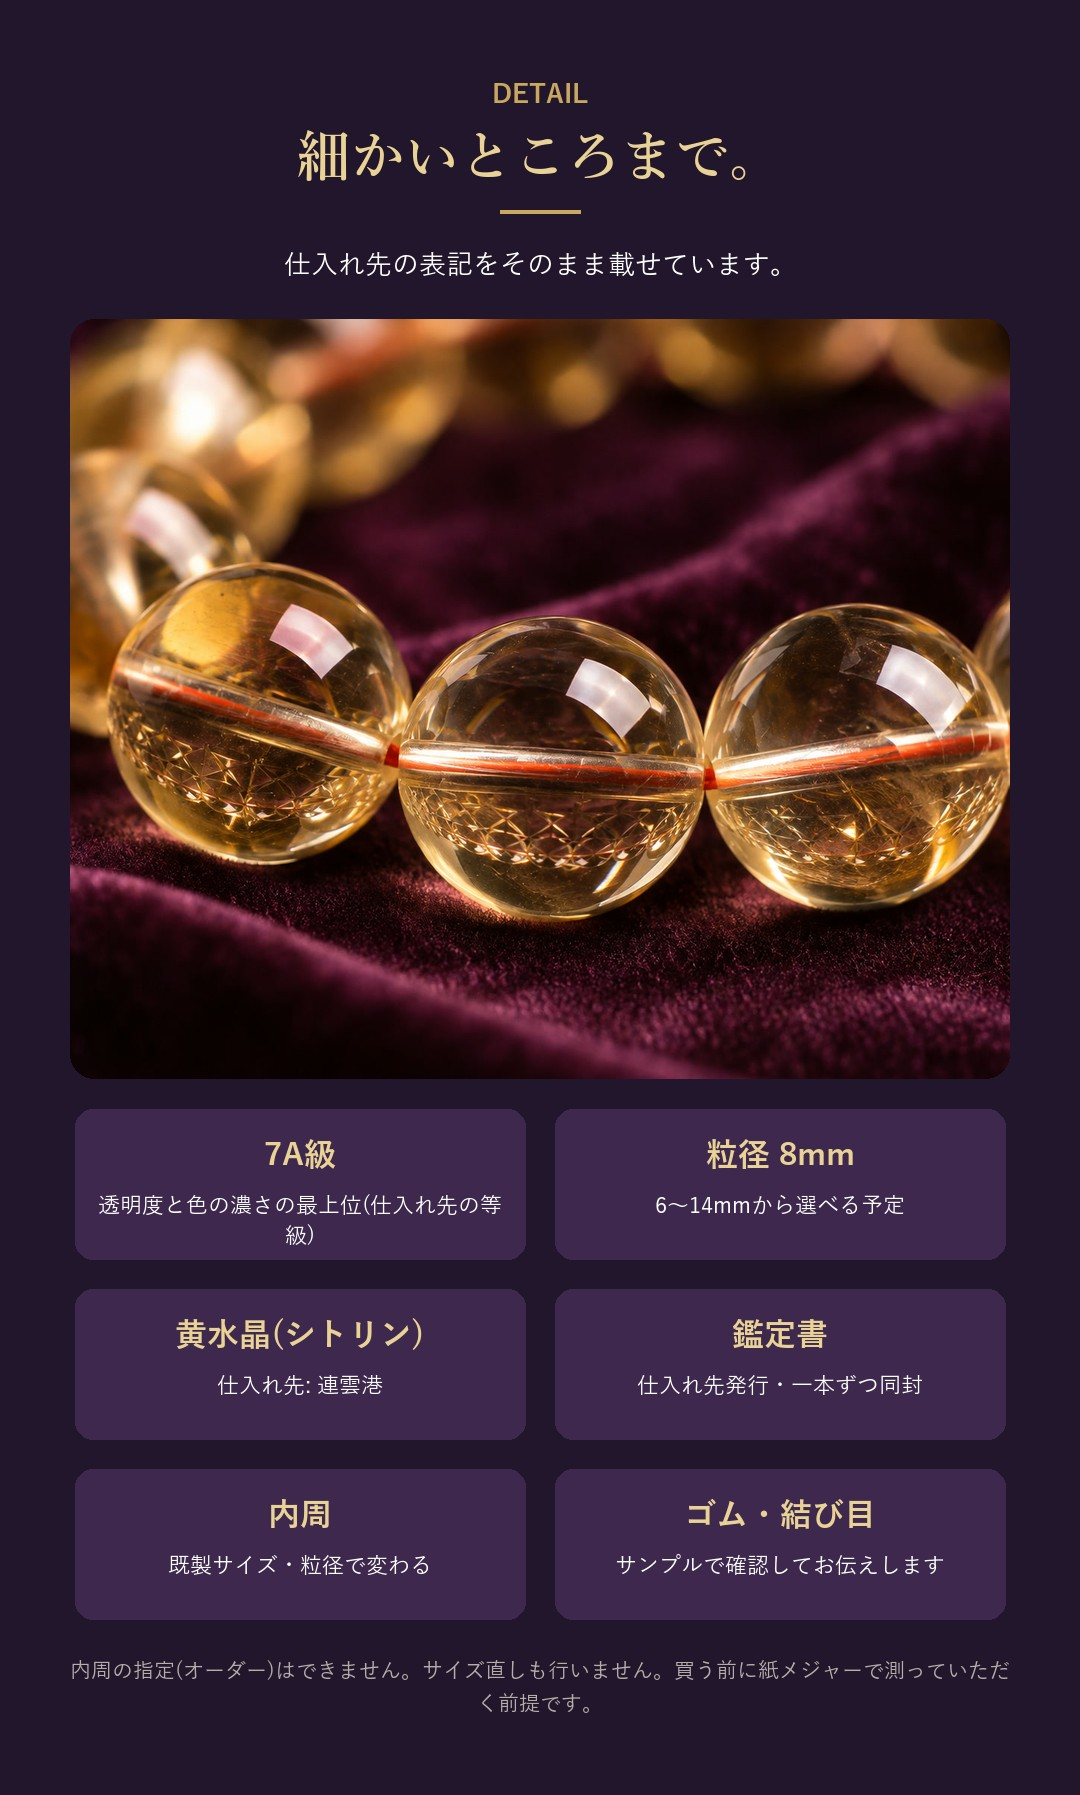
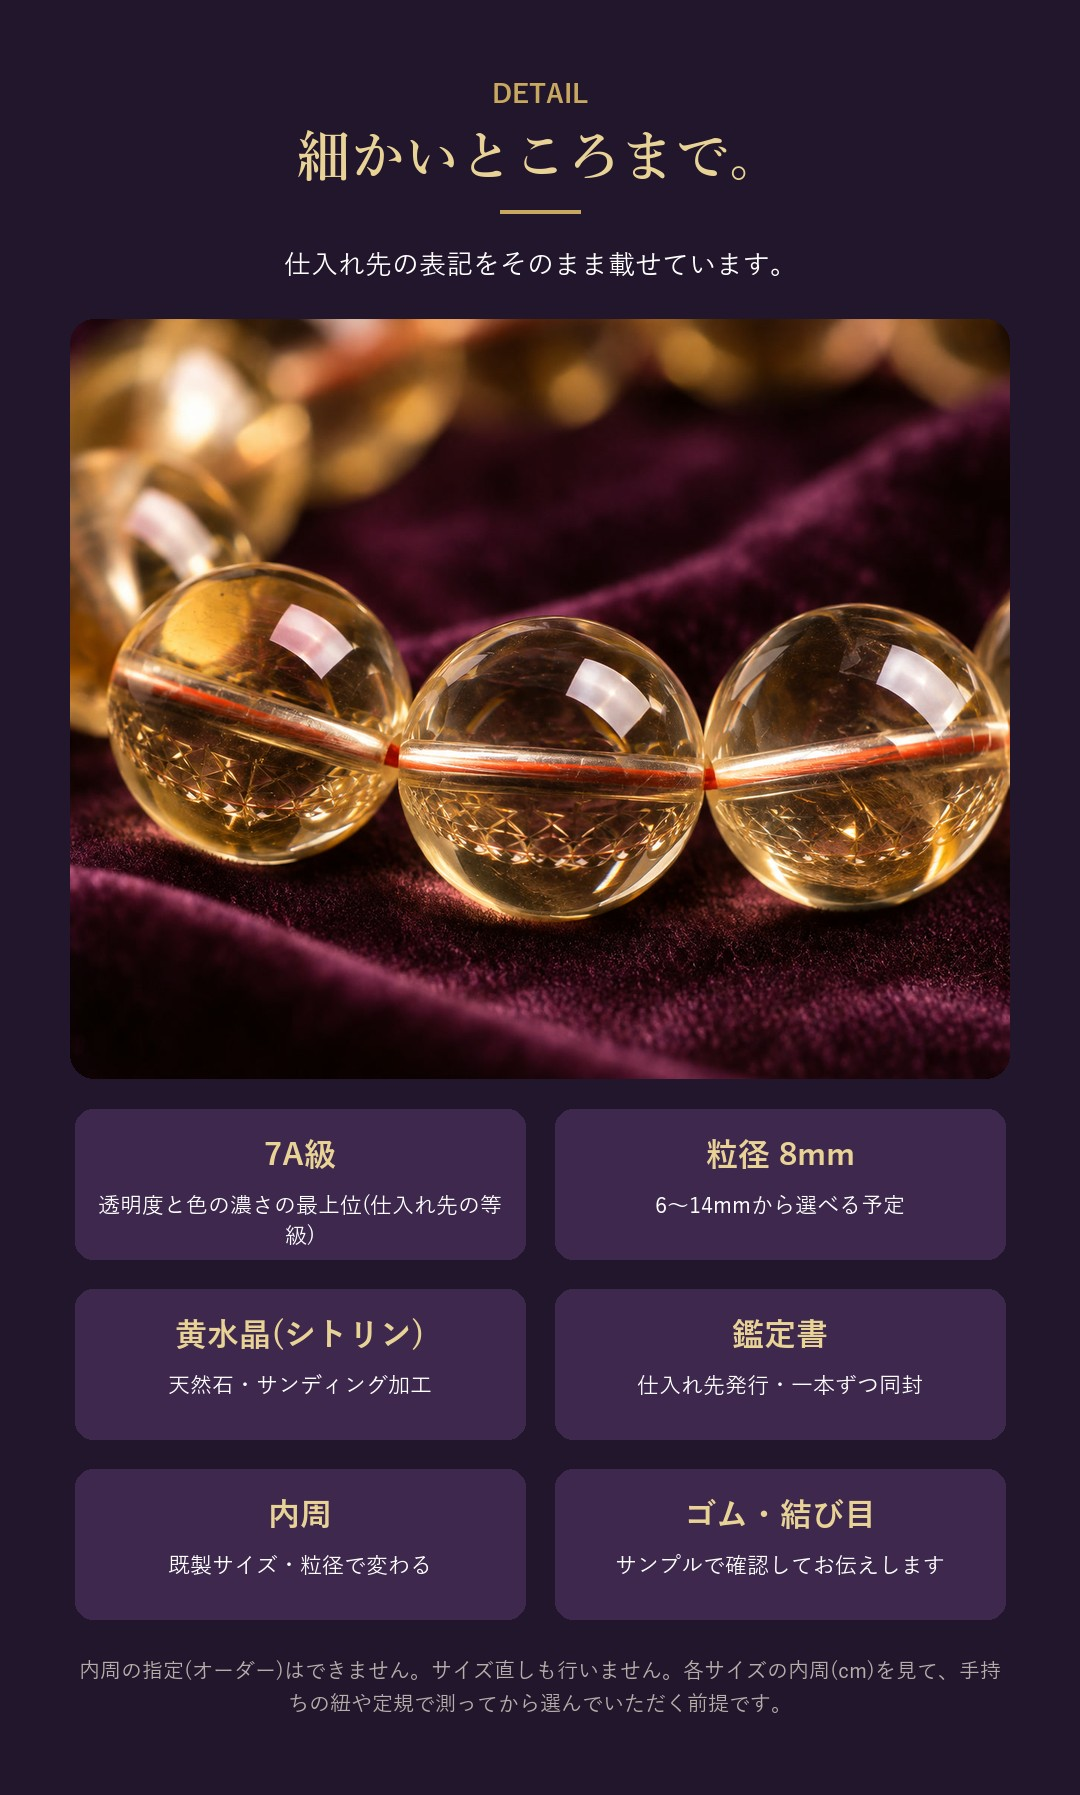
stone-a: 紙メジャーと産地の記述を削除

diff --git a/stone-a/index.html b/stone-a/index.html
@@ -32,20 +32,20 @@ html,body{margin:0;padding:0;background:#22162c;}
 </head>
 <body>
 <div class="wrap">
-<img src="lp01.jpg?v=202611102056" alt="一番上">
-<img src="lp02.jpg?v=202611102056" alt="こんなお悩み" loading="lazy">
-<img src="lp03.jpg?v=202611102056" alt="声を調べました" loading="lazy">
-<img src="lp04.jpg?v=202611102056" alt="アメリカでは" loading="lazy">
-<img src="lp05.jpg?v=202611102056" alt="だから選びました" loading="lazy">
-<img src="lp06.jpg?v=202611102056" alt="POINT1" loading="lazy">
-<img src="lp07.jpg?v=202611102056" alt="POINT2" loading="lazy">
-<img src="lp08.jpg?v=202611102056" alt="POINT3" loading="lazy">
-<img src="lp09.jpg?v=202611102056" alt="POINT4" loading="lazy">
-<img src="lp10.jpg?v=202611102056" alt="細かい作り" loading="lazy">
-<img src="lp11.jpg?v=202611102056" alt="発売と価格" loading="lazy">
-<img src="lp12.jpg?v=202611102056" alt="なぜ先行登録" loading="lazy">
-<img src="lp13.jpg?v=202611102056" alt="安心して登録するために" loading="lazy">
-<a href="https://lin.ee/6HWW343" class="line-link"><img src="lp14.jpg?v=202611102056" alt="LINE登録" loading="lazy"></a>
+<img src="lp01.jpg?v=202611210641" alt="一番上">
+<img src="lp02.jpg?v=202611210641" alt="こんなお悩み" loading="lazy">
+<img src="lp03.jpg?v=202611210641" alt="声を調べました" loading="lazy">
+<img src="lp04.jpg?v=202611210641" alt="アメリカでは" loading="lazy">
+<img src="lp05.jpg?v=202611210641" alt="だから選びました" loading="lazy">
+<img src="lp06.jpg?v=202611210641" alt="POINT1" loading="lazy">
+<img src="lp07.jpg?v=202611210641" alt="POINT2" loading="lazy">
+<img src="lp08.jpg?v=202611210641" alt="POINT3" loading="lazy">
+<img src="lp09.jpg?v=202611210641" alt="POINT4" loading="lazy">
+<img src="lp10.jpg?v=202611210641" alt="細かい作り" loading="lazy">
+<img src="lp11.jpg?v=202611210641" alt="発売と価格" loading="lazy">
+<img src="lp12.jpg?v=202611210641" alt="なぜ先行登録" loading="lazy">
+<img src="lp13.jpg?v=202611210641" alt="安心して登録するために" loading="lazy">
+<a href="https://lin.ee/6HWW343" class="line-link"><img src="lp14.jpg?v=202611210641" alt="LINE登録" loading="lazy"></a>
 </div>
 <div class="foot">
 <b>運営者情報</b><br>株式会社L-GM<br>神奈川県横浜市都筑区茅ケ崎中央11-5 パスタビル305<br>yokohama1227@l-gm266.info<br><br>
